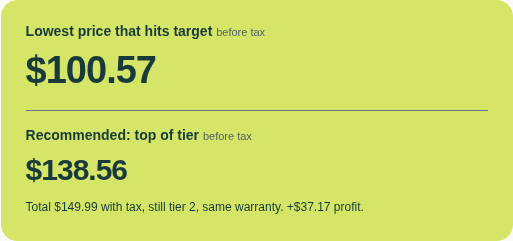
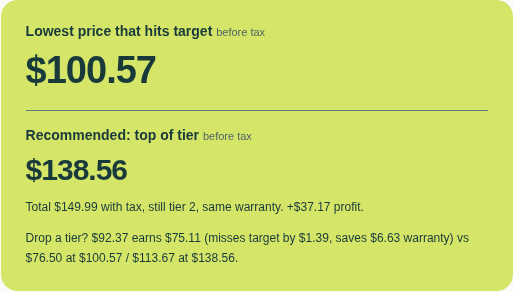
Base Drop a tier? on the warranty saved instead of a fixed $5 window

diff --git a/src/pricing.test.ts b/src/pricing.test.ts
@@ -1,5 +1,5 @@
 import { describe, expect, it } from 'vitest';
-import { calculateDiscountedTicket, calculateProfitPerHour, calculateTicket, findTargetPrice, NEAR_BOUNDARY_WINDOW, type TargetProfitInput } from './calc';
+import { calculateDiscountedTicket, calculateProfitPerHour, calculateTicket, dropTierMaxShortfall, findTargetPrice, type TargetProfitInput } from './calc';
 import { DEFAULT_CONFIG } from './config';
 import { MAX_MONEY_CENTS } from './money';
 
@@ -154,45 +154,39 @@ describe('top-of-tier recommendation', () => {
   });
 
   describe('drop-a-tier note', () => {
-    // Cash, no parts, tier 2 costs only $2.00 more than tier 1: tier 1 tops out at $92.37 for $77.11.
-    const cheapStep = {
-      ...DEFAULT_CONFIG,
-      warrantyTiers: DEFAULT_CONFIG.warrantyTiers.map((tier, i) => (i === 1 ? { ...tier, cost: 1_726 } : tier)),
-    };
-    const cash = { partCost: 0, screenRepair: true, payment: 'cash' as const };
-    const at = (targetProfit: number) => findTargetPrice({ ...cash, targetProfit }, cheapStep)!;
+    // Default rates, card, no parts: tier 1 tops out at $92.37 for $75.11; tier 2 costs $6.63 more.
+    const card = { partCost: 0, screenRepair: true, payment: 'card' as const };
+    const at = (targetProfit: number, config = DEFAULT_CONFIG) => findTargetPrice({ ...card, targetProfit }, config)!;
 
-    it('is shown when the lowest price is near the boundary, with the shortfall', () => {
-      const result = at(7_900);
-      expect(result.minimum.price).toBe(9_626);
-      expect(result.minimum.warrantyTierIndex).toBe(1);
+    it('computes the allowed shortfall from the warranty difference', () => {
+      expect(dropTierMaxShortfall(2_189, 1_526)).toBe(663);
+      expect(dropTierMaxShortfall(1_000, 1_000)).toBe(0);
+      expect(dropTierMaxShortfall(500, 1_000)).toBe(0);
+    });
+
+    it('fires at default rates when the lower tier misses the target by less than the warranty step', () => {
+      const result = at(7_650);
+      expect(result.minimum).toMatchObject({ price: 10_057, warrantyTierIndex: 1, netProfit: 7_650 });
       expect(result.previousTierMaxPrice).toBe(9_237);
-      expect(result.dropTier).toEqual({ price: 9_237, profit: 7_711, shortfall: 189 });
+      expect(result.dropTier).toEqual({ price: 9_237, profit: 7_511, shortfall: 139, warrantySaved: 663 });
       expect(result.dropTier!.profit).toBeLessThan(result.minimum.netProfit);
     });
 
-    it('is hidden when the lower tier already meets the target', () => {
-      // Tier 1 meets this target outright, so the minimum stays in tier 1 and there is no note.
-      expect(at(7_711).dropTier).toBeNull();
-    });
-
-    it('is included at exactly the window edge and hidden one cent beyond it', () => {
-      const edge = at(8_011);
-      expect(edge.minimum.price - edge.previousTierMaxPrice!).toBe(NEAR_BOUNDARY_WINDOW);
-      expect(edge.dropTier).not.toBeNull();
-      const beyond = at(8_012);
-      expect(beyond.minimum.price - beyond.previousTierMaxPrice!).toBe(NEAR_BOUNDARY_WINDOW + 1);
-      expect(beyond.dropTier).toBeNull();
-    });
-
-    it('is hidden when the target is far above the boundary, and in tier 1', () => {
-      expect(at(9_000).dropTier).toBeNull();
+    it('is hidden when the lower tier clearly earns less', () => {
+      expect(at(8_200).minimum.warrantyTierIndex).toBe(1);
+      expect(at(8_200).dropTier).toBeNull();
       expect(findTargetPrice(target)!.dropTier).toBeNull();
-      expect(findTargetPrice({ ...target, partCost: 0, targetProfit: 5_000 })!.dropTier).toBeNull();
     });
 
-    it('is hidden at default rates, where one tier step costs more than the window', () => {
-      expect(findTargetPrice({ ...target, partCost: 0, targetProfit: 7_512 })!.dropTier).toBeNull();
+    it('is shown at exactly the warranty step and hidden one cent beyond it', () => {
+      // $75.11 + $6.63 = $81.74 target is exactly one step above the lower tier's profit.
+      expect(at(7_511 + 663).dropTier).toMatchObject({ shortfall: 663 });
+      expect(at(7_511 + 664).dropTier).toBeNull();
+    });
+
+    it('is hidden in tier 1, where there is nothing to drop to', () => {
+      expect(at(5_000).dropTier).toBeNull();
+      expect(at(7_511).dropTier).toBeNull();
     });
   });
 

diff --git a/tests/pricing.spec.ts b/tests/pricing.spec.ts
@@ -62,6 +62,12 @@ for (const viewport of [{ name: 'desktop', width: 1280, height: 900 }, { name: '
     await expect(page.locator('#top-of-tier-note')).toHaveText('Total $199.99 with tax, still tier 3, same warranty. +$22.23 profit.');
     expect(await page.evaluate(() => document.documentElement.scrollWidth <= window.innerWidth)).toBe(true);
 
+    await page.getByLabel('Part cost', { exact: true }).fill('0');
+    await page.getByLabel('Target profit', { exact: true }).fill('76.50');
+    await expect(page.locator('#suggested-price')).toHaveText('$100.57');
+    await expect(page.locator('#target-boundary')).toHaveText('Drop a tier? $92.37 earns $75.11 (misses target by $1.39, saves $6.63 warranty) vs $76.50 at $100.57 / $113.67 at $138.56.');
+    await page.getByLabel('Target profit', { exact: true }).fill('82');
+    await expect(page.locator('#target-boundary')).toBeHidden();
     await page.getByLabel('Target profit', { exact: true }).fill('500');
     await expect(page.locator('#top-of-tier-price')).toHaveText('None');
     await expect(page.locator('#top-of-tier-note')).toHaveText('Tier 12 has no cap, so there is no top-of-tier price.');
@@ -71,7 +77,7 @@ for (const viewport of [{ name: 'desktop', width: 1280, height: 900 }, { name: '
   });
 }
 
-test('persists and resets the default target, and shows the drop-a-tier note near a boundary', async ({ page }) => {
+test('persists and resets the default target, and hides the drop-a-tier note when the lower tier is no cheaper', async ({ page }) => {
   await page.getByRole('button', { name: 'Settings', exact: true }).click();
   const defaultTarget = page.getByLabel('Default target profit ($)');
   await defaultTarget.fill('-1');
@@ -84,7 +90,8 @@ test('persists and resets the default target, and shows the drop-a-tier note nea
   await page.getByLabel('What should I charge?').check();
   await expect(page.getByLabel('Target profit', { exact: true })).toHaveValue('80.38');
   await expect(page.locator('#suggested-price')).toHaveText('$92.38');
-  await expect(page.locator('#target-boundary')).toHaveText('Drop a tier? $92.37 earns $75.11 (misses target by $5.27) vs $80.38 at $92.38 / $125.56 at $138.56: the lower price costs more than the warranty saves.');
+  // Tier 2 costs less than tier 1 here, so dropping a tier saves nothing.
+  await expect(page.locator('#target-boundary')).toBeHidden();
   await page.reload();
   await page.getByLabel('What should I charge?').check();
   await expect(page.getByLabel('Target profit', { exact: true })).toHaveValue('80.38');

diff --git a/src/calc.ts b/src/calc.ts
@@ -189,8 +189,10 @@ export interface TargetPriceResult {
   /** Extra warranty cost of the next tier up; null when warranty is off or there is none. */
   readonly nextTierWarrantyIncrease: number | null;
   /**
-   * Set when the minimum is in tier 2+ and sits no more than
-   * NEAR_BOUNDARY_WINDOW cents above the preceding tier's top price.
+   * Set when the minimum is in tier 2+ and the preceding tier's top price misses
+   * the target by no more than the warranty-cost difference between the two
+   * tiers (see dropTierMaxShortfall). A lower tier that meets the target would
+   * already have been the minimum, so shortfall is always positive here.
    */
   readonly dropTier: DropTierOption | null;
 }
@@ -202,10 +204,18 @@ export interface DropTierOption {
   readonly profit: number;
   /** Cents the profit falls short of the target; 0 when it meets it. */
   readonly shortfall: number;
+  /** Warranty cost saved by the lower tier. */
+  readonly warrantySaved: number;
 }
 
-/** Show the "Drop a tier?" note when the lowest target price is within $5.00 pre-tax above the lower tier's top price. */
-export const NEAR_BOUNDARY_WINDOW = 500;
+/**
+ * How far below the target the lower tier's top price may fall and still be
+ * worth showing: the warranty it saves. Both costs are integer cents, so the
+ * difference is exact (no rounding applies).
+ */
+export function dropTierMaxShortfall(upperTierCost: number, lowerTierCost: number): number {
+  return Math.max(0, upperTierCost - lowerTierCost);
+}
 
 function floorDivide(n: bigint, positiveDivisor: bigint): bigint {
   const quotient = n / positiveDivisor;
@@ -283,8 +293,10 @@ export function findTargetPrice(input: TargetProfitInput, config: ShopConfig = D
         if (index > 0) {
           const lowerTop = highestPriceForTotal(tiers[index - 1].max!, config.salesTaxBps);
           const lower = calculateTicket({ ...input, price: lowerTop }, config);
-          if (minimum.price - lowerTop <= NEAR_BOUNDARY_WINDOW) {
-            dropTier = { price: lowerTop, profit: lower.netProfit, shortfall: Math.max(0, input.targetProfit - lower.netProfit) };
+          const shortfall = Math.max(0, input.targetProfit - lower.netProfit);
+          const saved = tiers[index].cost - tiers[index - 1].cost;
+          if (shortfall <= dropTierMaxShortfall(tiers[index].cost, tiers[index - 1].cost)) {
+            dropTier = { price: lowerTop, profit: lower.netProfit, shortfall, warrantySaved: saved };
           }
         }
       }

diff --git a/src/main.ts b/src/main.ts
@@ -342,7 +342,7 @@ function update(): void {
     if (drop) {
       const miss = drop.shortfall > 0 ? `misses target by ${formatMoney(drop.shortfall)}` : 'hits target';
       const rec = top && top.price !== result.price ? ` / ${formatMoney(top.netProfit)} at ${formatMoney(top.price)}` : '';
-      element('target-boundary').textContent = `Drop a tier? ${formatMoney(drop.price)} earns ${formatMoney(drop.profit)} (${miss}) vs ${formatMoney(result.netProfit)} at ${formatMoney(result.price)}${rec}${drop.profit > result.netProfit ? ': cheaper warranty beats the lower price.' : ': the lower price costs more than the warranty saves.'}`;
+      element('target-boundary').textContent = `Drop a tier? ${formatMoney(drop.price)} earns ${formatMoney(drop.profit)} (${miss}, saves ${formatMoney(drop.warrantySaved)} warranty) vs ${formatMoney(result.netProfit)} at ${formatMoney(result.price)}${rec}.`;
     }
   } else {
     const discounted = calculateDiscountedTicket({ ...shared, price: price.cents }, { kind: discountKind.value as 'amount' | 'percent', value: discount.cents! }, config);

diff --git a/README.md b/README.md
@@ -115,7 +115,9 @@ With the screen warranty checked, tiers are set by the **tax-included** total, s
 
 The supporting text is one short line each, for example `Total $199.99 with tax, still tier 3, same warranty. +$22.23 profit.` The top tier has no upper limit, so it shows no recommendation. With the warranty unchecked nothing changes. If the lowest price is already the top of its tier, the note says so and shows how much more the next tier's warranty costs.
 
-**Drop a tier?** appears only when the lowest price is in tier 2 or higher and within `NEAR_BOUNDARY_WINDOW` ($5.00 pre-tax, in `src/calc.ts`) above the preceding tier's top price (`previousTierMaxPrice`). It gives that top price, the profit there (and by how much it misses the target, if it does), and the profit at the lowest and recommended prices, so you can see whether the cheaper warranty beats the lower price. Example with tier 2's warranty set to $17.26, $0 parts, $76.50 target, card: `Drop a tier? $92.37 earns $75.11 (misses target by $1.39) vs $76.50 at $95.83 / $118.30 at $138.56: the lower price costs more than the warranty saves.` With the default warranty costs one tier step is $6.63, so the lowest price is always more than $5 above the boundary and the note does not appear; it appears when your settings make a step cheaper. The **Nice price** (.99) line shows only if it lands in a costlier tier (or when the warranty is unchecked).
+**Drop a tier?** appears when the lowest price is in tier 2 or higher and the preceding tier's top price (`previousTierMaxPrice`) misses the target by no more than the warranty that dropping saves, i.e. the cost difference between the two tiers (`dropTierMaxShortfall`, exact integer cents). It shows that top price, its profit, how much it misses the target and the warranty saved, then the profit at the lowest and recommended prices, so you can judge whether the lower price is worth it. A lower tier that already met the target would itself be the lowest price, so the note never appears in that case.
+
+Hand check, default settings, card, $0 parts, $76.50 target. The lowest price is **$100.57** (tier 2, warranty $21.89, profit $76.50) and the recommended top of tier is $138.56 ($113.67). Tier 1 tops out at $92.37: tax $7.62, total $99.99, fee $2.00, warranty $15.26, so profit is $92.37 − $2.00 − $15.26 = **$75.11**, which is $1.39 short. That is under the **$6.63** warranty saved (tier 2 − tier 1 = $21.89 − $15.26), so the result shows: `Drop a tier? $92.37 earns $75.11 (misses target by $1.39, saves $6.63 warranty) vs $76.50 at $100.57 / $113.67 at $138.56.` A $82.00 target misses by $6.89, more than $6.63, so no note. The **Nice price** (.99) line shows only if it lands in a costlier tier (or when the warranty is unchecked).
 
 In **Profit from a price** mode, the optional discount accepts a dollar amount or a percentage with up to two decimal places. Percent discounts round half-up to cents before subtraction. Tax, ticket total, card fee, warranty tier and margin use the discounted price. The result compares profit with and without the discount and flags warranty savings. For example, discounting $93 by $0.63 moves the total from $100.67 to $99.99: the warranty falls from $21.89 to $15.26, and profit **increases $6.01**. Discounts must be nonnegative and cannot exceed the price or 100%; an empty discount means zero.
 
